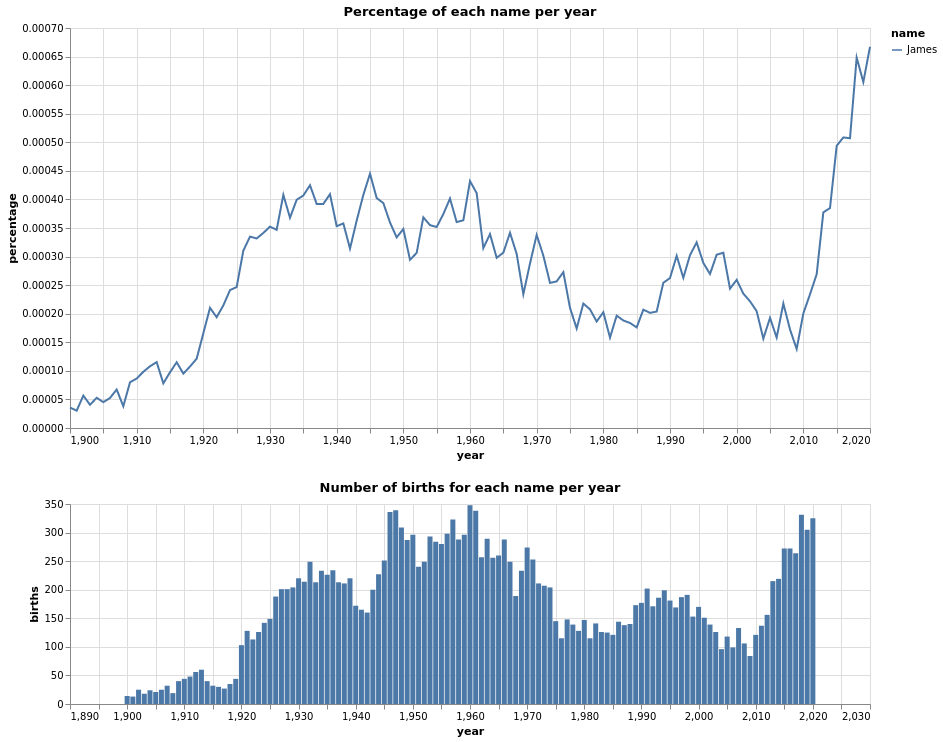
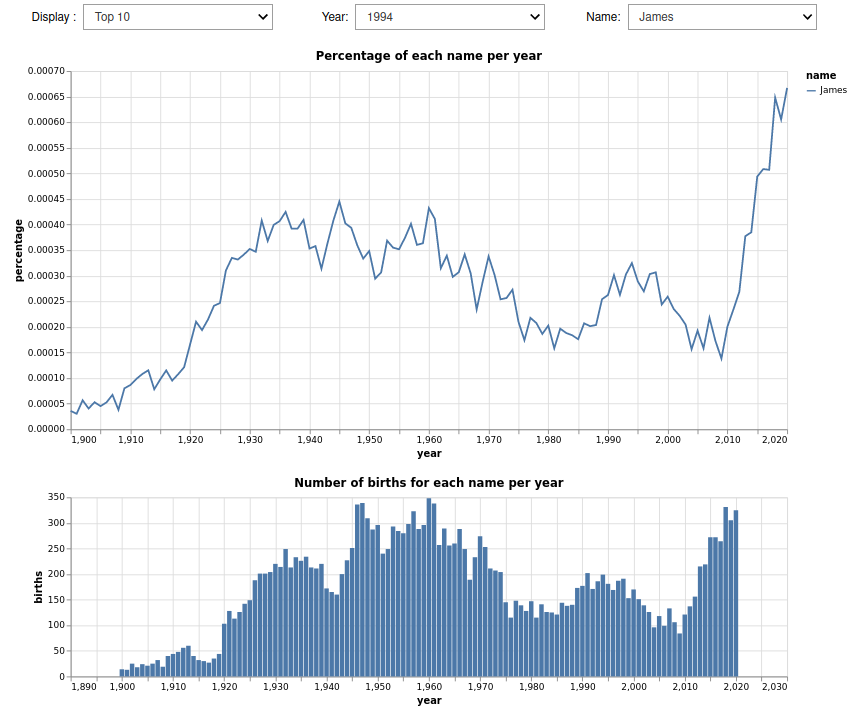
Update visualization_1

diff --git a/project01/visualization_1/README.md b/project01/visualization_1/README.md
@@ -6,10 +6,58 @@ This visualization intends to answer to following questions:
 * Are there some that have were suddenly or briefly popular or unpopular? 
 * Are there trends in time?
 
-Our proposal is to show evolution of 
+Our proposal is to show evolution of percentage (not strictly percentage but the ration
+annual birth of each name in all region divide by total annual birth of
+year) of annual births for each name during time.
+and additional barplot of annual births per name
+The advantage of percentage is to scale values during time, so we could have
+better comparison of births during time.
 
-## First chart `-> 1ere proposition`
+The lineplot on the main chart will help to answer to above questions by
+showing pop-up any "outlier"...... 
 
-![Alt text](images/All_year.png?raw=true "Title")
+We also propose two variants of the plot by adding new chart showing the 
+evolution of gobal annual births and names diversity during time.
 
-## Second chart
+## First proposal
+The first proposal consists in two charts. It is an interactive chart which
+let user to select the display. At the beginning, only `selectors` are available and
+waiting for user action. \
+The user must select (`Display` and `Year`) or (`Name`) where `name` has the highest
+priority.
+* **Display:** filter number of names to display. if None, all name will be selected. It needs `Year` selected also
+* **Year:** filter year to display:
+* **Name:** filter name to display. 
+
+Here are some use cases:
+* This picture show the result of selecting all year in `Year` filter.
+lineplot draw percentage of annual births per name per year during 1920.
+And the histogram represents same but using annual births instead of percentage.
+**`ON REMARQUE UNE FAIBLE VARIANCE/ECART-TYPE DE LA POPULARITE DES PRENOMS AVEC LE TEMPS
+. QUELQUES PRENOMS QUI SORTENT DU LOTS MAIS RESTE MOINS LONGTEMPS POPULAIREE`** 
+
+![alt-text-1](images/All_year.png "Year")
+
+
+* Displaying the evolution of top 10 of popular names in 1994. The top 10 is done by
+ranking the percentage of names for selected year without taking gender impact. 
+![alt-text](images/top10_1994.png "1994_top10")
+
+
+* on this case, we show the priority of `Name` selector over the two one. So the 
+visualization draw the evolution of name `James` over the time. Values of `Display` and `Year`
+are not taked in account.
+![alt-text-2](images/Name_prior_others.png "Name")
+
+
+* User can select a specific name on the lineplot to pop-up the curve on both
+plot. 
+
+![alt-text-2](images/selection_filter.png "filter")
+
+## Second proposal
+The second proposal is to add some information we found interesting.
+Lineplot shows that popularity of name decrease from year to year, so we tried to
+to understand if the number of births was decreasing also. To answer to this question
+we propose to add the evolution of annual births and diversity of names. 
+![alt-text-2](images/2nd_option_bottom5_1901.png "2nd_option")
